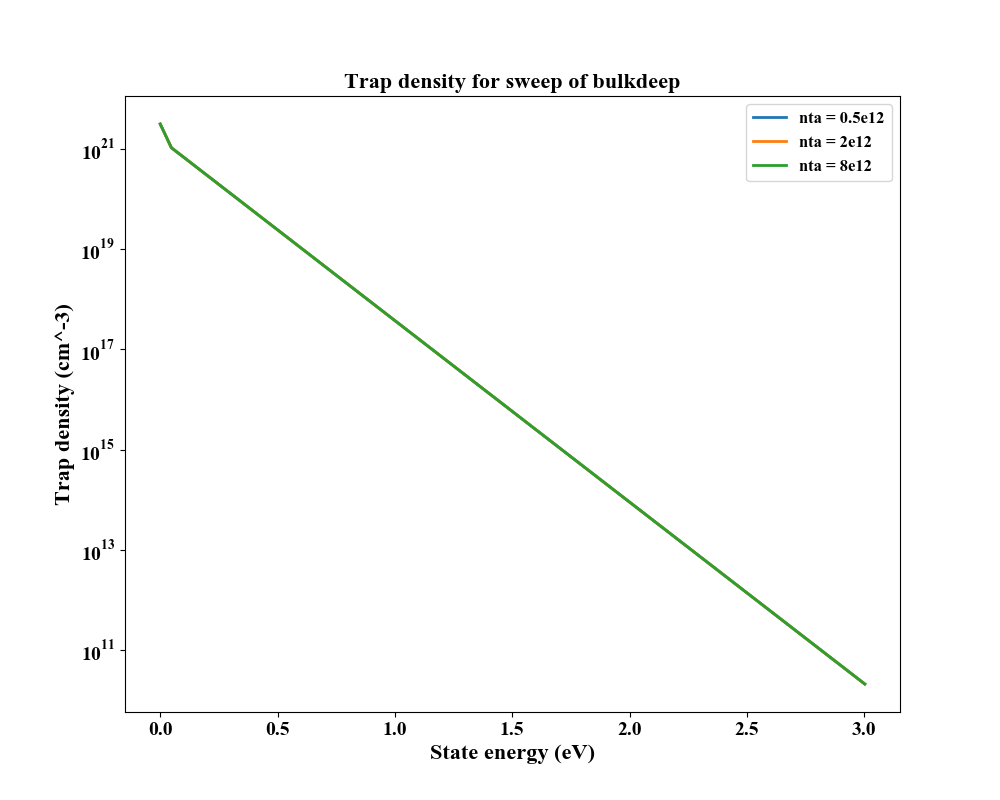
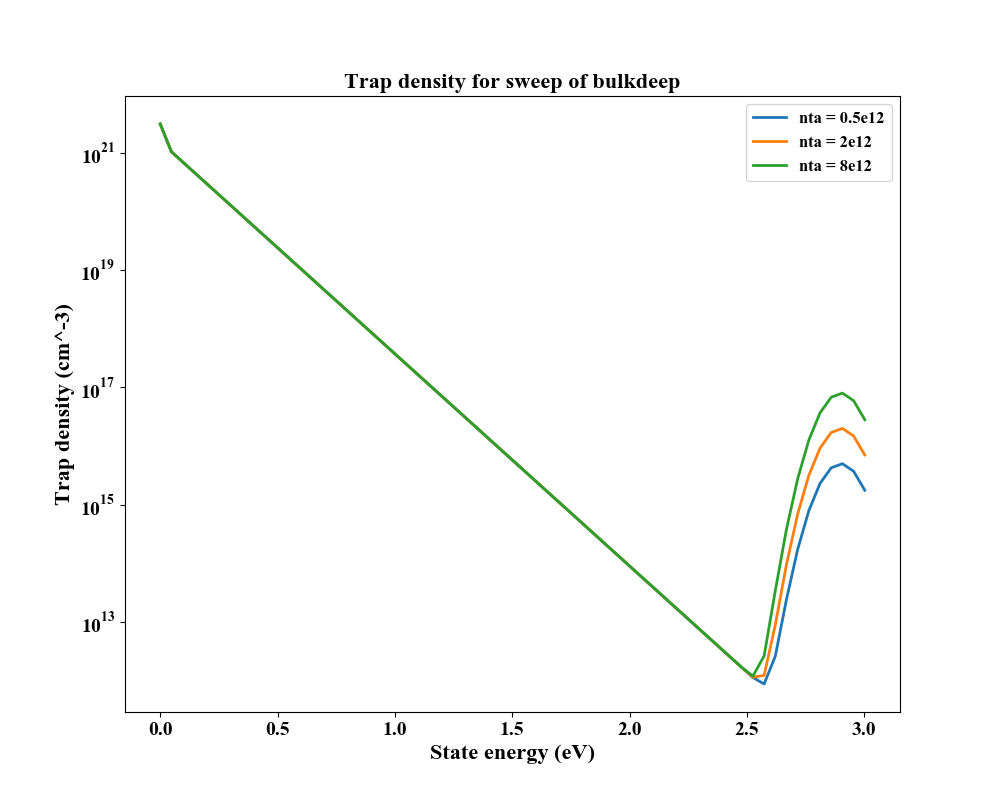
Re-plot trap density

diff --git a/DataProcess/Project_2.py b/DataProcess/Project_2.py
@@ -40,10 +40,10 @@ def main():
     plot_trap_2(root_2, trap_bulk_acc, trap_bulk_don, name_2)
     plot_trap_2(root_3, trap_bulk_acc, trap_bulk_don, name_3)
 
-    plot_transfer(root_1, transferNeg_1, transferPos_1, name_1)
-    plot_transfer(root_2, transferNeg_2, transferPos_2, name_2)
-    plot_transfer(root_3, transferNeg_3, transferPos_3, name_3)
-    plot_transfer(root_4, transferNeg_4, transferPos_4, name_4)
+    # plot_transfer(root_1, transferNeg_1, transferPos_1, name_1)
+    # plot_transfer(root_2, transferNeg_2, transferPos_2, name_2)
+    # plot_transfer(root_3, transferNeg_3, transferPos_3, name_3)
+    # plot_transfer(root_4, transferNeg_4, transferPos_4, name_4)
 
 
 def plot_trap_1(root, files, name):
@@ -60,7 +60,7 @@ def plot_trap_1(root, files, name):
         i = 0
         while i < s:
             energy[i, num - 1] = float(tmp[i][0][4 : 16])
-            trap[i, num - 1] = float(tmp[i][0][46 : 48])
+            trap[i, num - 1] = float(tmp[i][0][46 : 58])
             i = i + 1
 
     ## Plot trap density for interface sweep
@@ -107,13 +107,14 @@ def plot_trap_2(root, files_acc, files_don, name):
         j = 0
         while i < s_d:
             energy[i, num - 1] = float(tmp_d[i][0][4 : 16])
-            trap_don[i, num - 1] = float(tmp_d[i][0][18 : 30])
+            trap_don[i, num - 1] = float(tmp_d[i][0][46 : 58])
             while j < s_a:
                 if tmp_a[j][0][4 : 16] == tmp_d[i][0][4 : 16]:
-                    trap_acc[i, num - 1] = float(tmp_a[i][0][18 : 30])
+                    trap_acc[i, num - 1] = float(tmp_a[i][0][46 : 58])
                 j = j + 1
             trap[i, num - 1] = trap_acc[i, num - 1] + trap_don[i, num - 1]
             i = i + 1
+    print(trap_don)
 
     ## Plot trap density for bulkdeep & bulkshallow sweep
     plt.figure(5, figsize = (10, 8))
